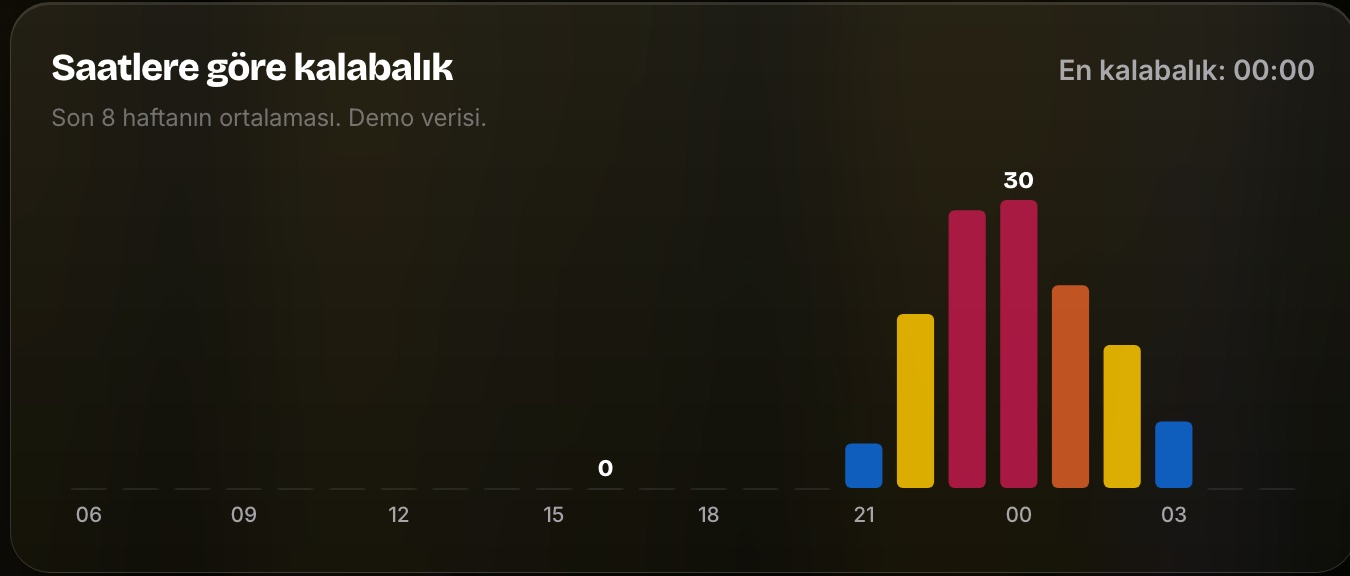
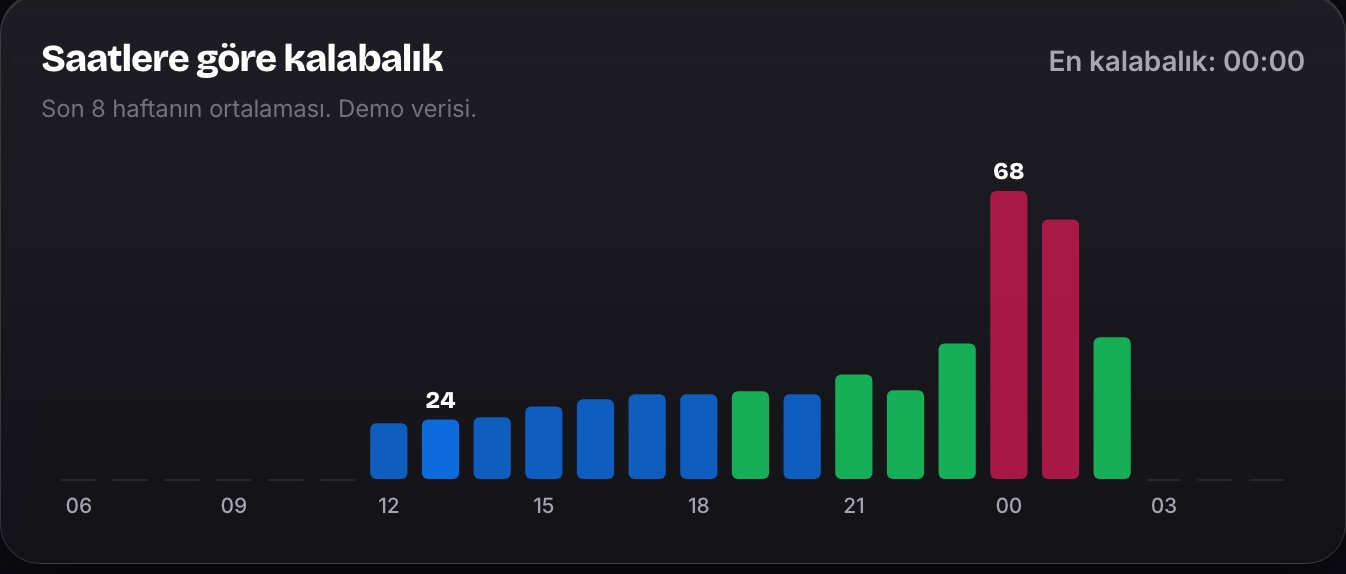
Update demo from venue-occupancy-mvp (d193954)

diff --git a/presentation-template/index.html b/presentation-template/index.html
@@ -248,7 +248,7 @@
         </div>
       </div>
       <div class="imac imac--low" aria-hidden="true">
-        <div class="imac-screen"><img data-shared="screen" src="assets/panel-kulup-full.jpg?v=3" alt="" width="2400" height="5390" decoding="async"></div>
+        <div class="imac-screen"><img data-shared="screen" src="assets/panel-poison-full.jpg?v=1" alt="" width="2400" height="7038" decoding="async"></div>
         <div class="imac-chin"></div>
         <div class="imac-neck"></div>
         <div class="imac-foot"></div>
@@ -257,9 +257,9 @@
 
     <!-- 11 · Panel full screen: the iMac screen grows to fill the slide; the venue page scrolls
          inside it (data-scroll), and the deck moves on only once the page is at its end. -->
-    <section class="slide slide--fullpage" data-flow="imac" aria-roledescription="slide" aria-label="Panel ekranı: Kulüp">
+    <section class="slide slide--fullpage" data-flow="imac" aria-roledescription="slide" aria-label="Panel ekranı: Poison Pub">
       <div class="page-scroll" data-scroll data-shared="screen" tabindex="-1">
-        <img src="assets/panel-kulup-full.jpg?v=3" alt="Kulüp işletme detay sayfası: anlık ziyaretçi sayısı, rekor, m² başına yoğunluk, gün içi grafik, haftanın günleri ve saatlere göre kalabalık, Akyaka içindeki pay, etkinliğe ve sezona göre kalabalık" width="2400" height="5390" decoding="async">
+        <img src="assets/panel-poison-full.jpg?v=1" alt="Poison Pub işletme detay sayfası: anlık ziyaretçi sayısı, rekor, m² başına yoğunluk, gün içi grafik, haftanın günleri ve saatlere göre kalabalık, Akyaka içindeki pay, etkinliğe ve sezona göre kalabalık" width="2400" height="7038" decoding="async">
       </div>
       <div class="scroll-hint" aria-hidden="true">
         <svg viewBox="0 0 24 24" width="22" height="22" fill="none" stroke="currentColor" stroke-width="2.2" stroke-linecap="round" stroke-linejoin="round"><path d="M6 9l6 6 6-6"/></svg>
@@ -328,7 +328,7 @@
         <h3>Gün boyu kişi sayısı</h3>
         <p>Ölçülen çizgi kalabalığın gün içine nasıl dağıldığını gösterir. Noktalı çizgi her haftanın aynı gününün ortalamasını, kesik çizgi (Beklenen) ise AI ile oluşturulan tahmini gösterir. Alttaki slider ise geçmiş tarihlerin verisini görüntülemek için kullanılır.</p>
       </div>
-      <figure class="comp-card embed-card"><div class="app-embed" data-mode="card" data-src="../venue.html?mekan=kulup&amp;lang=tr&amp;tab=density" data-card="Gün boyu kişi sayısı" data-title="Gün boyu kişi sayısı"></div></figure>
+      <figure class="comp-card"><img src="assets/cmp-day.jpg?v=1" alt="Poison Pub: gün boyu kişi sayısı (21 Kasım Cumartesi)" width="2720" height="1030" decoding="async"></figure>
     </section>
 
     <!-- 14 · Panel components: week days and hours -->
@@ -340,14 +340,14 @@
         <p>Son 8 haftanın ortalamasıyla hangi günlerin dolu, hangilerinin boş geçtiği. Personel, stok ve etkinlik planı bu dağılıma göre yapılabilir.</p>
       </div>
       <figure class="comp-card reveal-y">
-        <img src="assets/cmp-week.jpg?v=2" alt="Haftanın günlerine göre kalabalık" width="1350" height="576" decoding="async">
+        <img src="assets/cmp-week.jpg?v=3" alt="Haftanın günlerine göre kalabalık" width="1346" height="574" decoding="async">
       </figure>
       <div class="comp-explain">
         <h3>Saatlere göre kalabalık</h3>
         <p>Kalabalığın günün hangi saatinde zirve yaptığı. Açılış saatleri, happy hour ve duyurular için doğru zamanı gösterir.</p>
       </div>
       <figure class="comp-card reveal-y">
-        <img src="assets/cmp-hours.jpg?v=2" alt="Saatlere göre kalabalık" width="1350" height="576" decoding="async">
+        <img src="assets/cmp-hours.jpg?v=3" alt="Saatlere göre kalabalık" width="1346" height="574" decoding="async">
       </figure>
     </section>
 
@@ -390,7 +390,7 @@
         <h3>Etkinliğe göre kalabalık</h3>
         <p>Her etkinlikte görülen en yüksek kalabalık, en yeniden eskiye. Hangi DJ, sanatçı ya da konseptin daha çok kişi çektiği ve hangi etkinliğin maliyetini karşılamadığı net görülür.</p>
       </div>
-      <figure class="comp-card embed-card"><div class="app-embed" data-mode="card" data-src="../venue.html?mekan=kulup&amp;lang=tr&amp;tab=density" data-card="Etkinliğe göre kalabalık" data-title="Etkinliğe göre kalabalık" data-sort="events-desc"></div></figure>
+      <figure class="comp-card embed-card"><div class="app-embed" data-mode="card" data-src="{app}?mekan=poison-pub&amp;lang=tr&amp;tab=density" data-card="Etkinliğe göre kalabalık" data-title="Etkinliğe göre kalabalık" data-sort="events-desc"></div></figure>
     </section>
 
     <!-- 17 · Panel component: Sezonlara göre tüm zamanların en yükseği -->
@@ -401,7 +401,7 @@
         <h3>Sezonlara göre tüm zamanların en yükseği</h3>
         <p>Uzun vadeli ölçüm sonucu hangi sezonlar ne kadar ziyaretçi getirmiş, trend ne zaman düşüşe geçmiş ne zaman yükselmiş. Uzun vade planlamaya ışık tutar.</p>
       </div>
-      <figure class="comp-card embed-card"><div class="app-embed" data-mode="card" data-src="../venue.html?mekan=kulup&amp;lang=tr&amp;tab=density" data-card="Sezonlara göre tüm zamanların en yükseği" data-title="Sezonlara göre tüm zamanların en yükseği"></div></figure>
+      <figure class="comp-card embed-card"><div class="app-embed" data-mode="card" data-src="{app}?mekan=poison-pub&amp;lang=tr&amp;tab=density" data-card="Sezonlara göre tüm zamanların en yükseği" data-title="Sezonlara göre tüm zamanların en yükseği"></div></figure>
     </section>
 
     <!-- 18 · Venue page tab: Aktivite takvimi (the page scrolls slowly inside the window) -->
@@ -412,7 +412,7 @@
         <h3>Aktivite takvimi</h3>
         <p>Etkinlik takvimi işletmenin instagram sayfasından çekilir ve yayınlanır. Böylece ziyaretçiler etkinliklerin hepsine tek platformdan erişebilir.</p>
       </div>
-      <figure class="comp-card embed-card embed-card--page"><div class="app-embed" data-mode="page" data-src="../venue.html?mekan=kulup&amp;lang=tr&amp;tab=calendar" data-title="Aktivite takvimi"></div></figure>
+      <figure class="comp-card embed-card embed-card--page"><div class="app-embed" data-mode="page" data-src="{app}?mekan=poison-pub&amp;lang=tr&amp;tab=calendar" data-title="Aktivite takvimi"></div></figure>
     </section>
 
     <!-- 19 · Venue page tab: Menü (the page scrolls slowly inside the window) -->
@@ -423,17 +423,17 @@
         <h3>Menü</h3>
         <p>Menü, sosyal medya linkleri, iletişim, rezervasyon, web sayfası ve mekana ait görseller. Tüketiciye göstermek için hazır.</p>
       </div>
-      <figure class="comp-card embed-card embed-card--page"><div class="app-embed" data-mode="page" data-src="../venue.html?mekan=kulup&amp;lang=tr&amp;tab=menu" data-title="Menü"></div></figure>
+      <figure class="comp-card embed-card embed-card--page"><div class="app-embed" data-mode="page" data-src="{app}?mekan=poison-pub&amp;lang=tr&amp;tab=menu" data-title="Menü"></div></figure>
     </section>
 
-    <!-- 20 · "Tam kontrol." Step 0: Kulüp's detail page full screen under a black overlay with the text.
+    <!-- 20 · "Tam kontrol." Step 0: Poison Pub's detail page full screen under a black overlay with the text.
          Step 1 (next scroll): the overlay lifts, the page slides down and the live map view (the app itself,
          loaded by reveal-map.js) is revealed underneath. -->
     <section class="slide slide--reveal" data-steps="1" data-flow="map" aria-roledescription="slide" aria-label="Tam kontrol">
       <div class="rv-map" data-shared="map">
         <iframe title="herkez nerde?! harita görünümü" tabindex="-1" loading="lazy"></iframe>
       </div>
-      <div class="rv-page"><img src="assets/panel-kulup-full.jpg?v=3" alt="Kulüp işletme profil sayfası" width="2400" height="5390" decoding="async"></div>
+      <div class="rv-page"><img src="assets/panel-poison-full.jpg?v=1" alt="Poison Pub işletme profil sayfası" width="2400" height="7038" decoding="async"></div>
       <div class="rv-overlay">
         <div class="rv-copy">
           <h2 class="display rv-title">Tam kontrol.</h2>
@@ -579,10 +579,10 @@
               <img class="notif-app" src="assets/app-icon.svg" alt="" width="40" height="40">
               <div class="notif-body">
                 <p class="notif-head"><b>HERKEZ NERDE?!</b><span>şimdi</span></p>
-                <p class="notif-title">Kulüp zirveye ulaştı</p>
+                <p class="notif-title">Poison Pub zirveye ulaştı</p>
                 <p class="notif-text">168 kişi</p>
               </div>
-              <img class="notif-thumb" src="assets/logos/kulup.png" alt="" width="56" height="56">
+              <img class="notif-thumb" src="assets/logos/poisonpub.png" alt="" width="56" height="56">
             </article>
             <article class="notif" style="--i:1">
               <img class="notif-app" src="assets/app-icon.svg" alt="" width="40" height="40">
@@ -856,11 +856,11 @@
 
 <script src="deck.js?v=18"></script>
 <script src="live-metrics.js?v=3"></script>
-<script src="share-chart.js?v=1"></script>
-<script src="embed.js?v=7"></script>
+<script src="share-chart.js?v=2"></script>
+<script src="embed.js?v=9"></script>
 <script src="reveal-map.js?v=2"></script>
-<script src="phone-embed.js?v=7"></script>
-<script src="mobile-tour.js?v=4"></script>
+<script src="phone-embed.js?v=9"></script>
+<script src="mobile-tour.js?v=5"></script>
 <script src="ai-chat.js?v=1"></script>
 </body>
 </html>

diff --git a/presentation-template/share-chart.js b/presentation-template/share-chart.js
@@ -1,6 +1,6 @@
 // "Akyaka'daki kalabalığın payı" rebuilt from the app (venue.html renderShare): the same rounded ring
-// geometry, colours and data for Kulüp on 09.11.2026 16:00. Hover or tap a slice or a row to put it in
-// the centre; while the slide is idle the centre walks through the slices and comes back to Kulüp.
+// geometry, colours and data on 09.11.2026 16:00, centred on Poison Pub. Hover or tap a slice or a row to put
+// it in the centre; while the slide is idle the centre walks through the slices and comes back to Poison Pub.
 (function () {
   const card = document.getElementById('shareCard');
   if (!card) return;
@@ -8,9 +8,9 @@
   const L = 'assets/logos/';
   const VENUES = [
     { name: 'No22 Riders Inn', n: 344, logo: 'no22riders.png' },
-    { name: 'Kulüp', n: 287, logo: 'kulup.png', me: true },
+    { name: 'Kulüp', n: 287, logo: 'kulup.png' },
     { name: 'Dane Gökova', n: 230, logo: 'danegokova.png' },
-    { name: 'Poison Pub', n: 172, logo: 'poisonpub.png' },
+    { name: 'Poison Pub', n: 172, logo: 'poisonpub.png', me: true },
     { name: 'Kukla Pub', n: 139, logo: 'kukla.png' },
     { name: 'Back Loop', n: 135, logo: 'backloop.png' },
     { name: 'Edit.', n: 131, logo: 'edit.png' },
@@ -23,7 +23,7 @@
   const total = VENUES.reduce((a, v) => a + v.n, 0);
   const pct = (n) => Math.round(n / total * 100) + '%';
 
-  // Slices: Kulüp + the five busiest others, the rest as one grey slice (as in the app).
+  // Slices: Poison Pub + the five busiest others, the rest as one grey slice (as in the app).
   const me = VENUES.find((v) => v.me), others = VENUES.filter((v) => !v.me);
   let ci = 0;
   const slices = [me, ...others.slice(0, 5)].sort((a, b) => b.n - a.n)
@@ -60,7 +60,7 @@
     donut.appendChild(b);
   });
 
-  // List: every venue, busiest first; Kulüp highlighted.
+  // List: every venue, busiest first; Poison Pub highlighted.
   const list = card.querySelector('.sc-list');
   list.innerHTML = VENUES.slice().sort((x, y) => y.n - x.n).map((v, i) =>
     '<li class="sc-row' + (v.me ? ' me' : '') + '" data-name="' + v.name + '" style="--i:' + i + '">' +
@@ -99,7 +99,7 @@
   });
   card.addEventListener('mouseleave', () => { hovering = false; focus(meK); });
 
-  // Idle tour through the slices while the slide is on screen, ending back on Kulüp.
+  // Idle tour through the slices while the slide is on screen, ending back on Poison Pub.
   let timer = null, step = 0;
   const order = slices.map((_, k) => k).filter((k) => k !== meK);
   function tour() {

diff --git a/presentation-template/mobile-tour.js b/presentation-template/mobile-tour.js
@@ -1,6 +1,6 @@
 // Slide 21: the live mobile app in a phone, walked through step by step (the deck's data-step 0–5).
 //  1 · pan the map to the user and point at "Buradasın" and the pictogram
-//  2 · point at Kulüp's POI and its label
+//  2 · point at Poison Pub's POI and its label
 //  3 · point at the filter button
 //  4 · point at the AI assistant (Öneriler)
 //  5 · Poison Pub's landing page (React app) slides in and scrolls slowly down it
@@ -32,8 +32,8 @@
   const targets = {
     1: () => [mapDoc.querySelector('.youmark'), ...Array.from(mapDoc.querySelectorAll('.you-label'))],
     2: () => {
-      const label = Array.from(mapDoc.querySelectorAll('.leaflet-tooltip')).find((t) => t.textContent.includes('Kulüp'));
-      const logo = Array.from(mapDoc.querySelectorAll('.leaflet-marker-icon')).find((m) => m.innerHTML.includes('kulup'));
+      const label = Array.from(mapDoc.querySelectorAll('.leaflet-tooltip')).find((t) => t.textContent.includes('Poison Pub'));
+      const logo = Array.from(mapDoc.querySelectorAll('.leaflet-marker-icon')).find((m) => m.innerHTML.includes('poisonpub'));
       return [label, logo];
     },
     3: () => [mapDoc.getElementById('filterBtn'), mapDoc.getElementById('filterPanel')],

diff --git a/presentation-template/phone-embed.js b/presentation-template/phone-embed.js
@@ -2,7 +2,7 @@
 //  map        – the heat map zoomed out over every venue, so all crowd levels show at once
 //  list-ent   – list view with only No22 Riders Inn, Kulüp, Dane, Edit, Poison Pub (in that order)
 //  list-food  – list view with only Lemongrass Cafe, Motto, Back Loop, Sepia, Chicken Loop
-//  detail-cal – Kulüp's venue page with the activity calendar tab open
+//  detail-cal – Poison Pub's venue page with the activity calendar tab open
 // A status bar sits above the app so the phone's island never covers it. Embeds load when the deck is
 // near their slide and do not take pointer input, so scrolling keeps moving the deck.
 (function () {
@@ -15,7 +15,7 @@
     'map': '../index.html?lang=tr#harita',
     'list-ent': '../index.html?lang=tr#liste',
     'list-food': '../index.html?lang=tr#liste',
-    'detail-cal': '../venue.html?mekan=kulup&lang=tr&tab=calendar',
+    'detail-cal': '{app}?mekan=poison-pub&lang=tr&tab=calendar',
   };
   const norm = (s) => (s || '').normalize('NFC').toLocaleLowerCase('tr').replace(/[^a-zçğıöşü0-9]/g, '');
   const slides = Array.from(document.querySelectorAll('.slide'));

diff --git a/presentation-template/embed.js b/presentation-template/embed.js
@@ -90,7 +90,7 @@
 
     loadAppFrame(frame, box.dataset.src, (win, doc) => {
       const st = doc.createElement('style');
-      st.textContent = '#kitties{display:none!important}html{scrollbar-width:none}::-webkit-scrollbar{display:none}' + (mode === 'card' ? '.langswitch{display:none!important}' : '');
+      st.textContent = '#kitties{display:none!important}html{scrollbar-width:none}::-webkit-scrollbar{display:none}' + (mode === 'card' ? '.langswitch,.viewswitch,.va-fab,.va-panel{display:none!important}.vhead,.vtabs{position:static!important}' : '');
       doc.head.appendChild(st);
       forward(win, doc, mode);
       if (box.dataset.sort === 'events-desc') sortEvents(win, doc);
